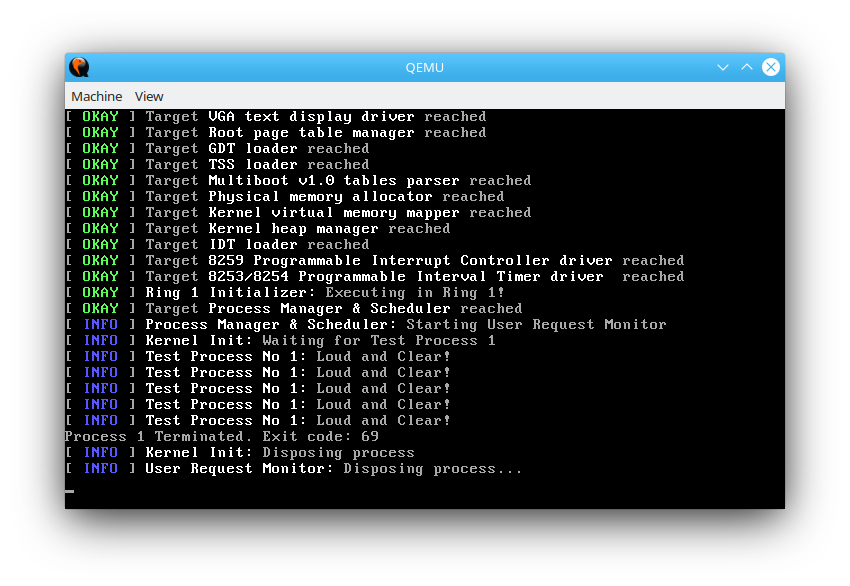
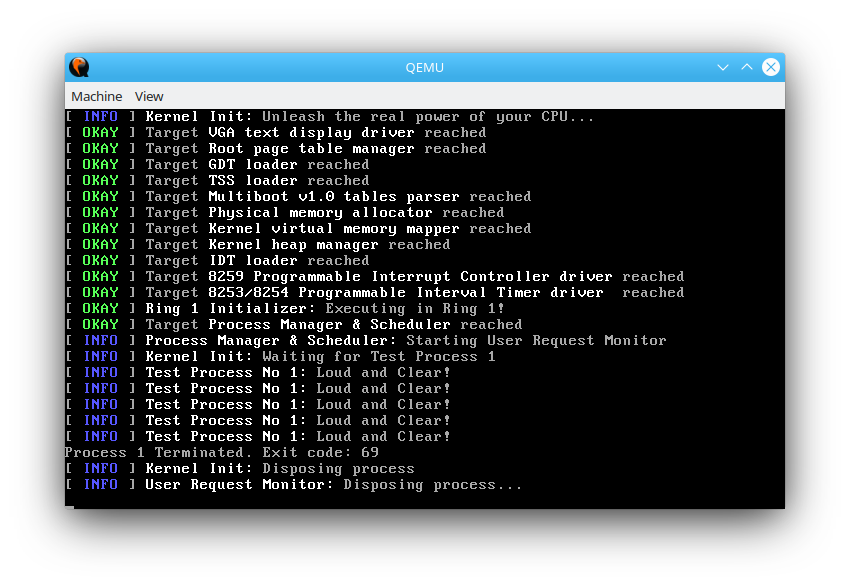
meta: Added important remark

diff --git a/kernel/src/entry.c b/kernel/src/entry.c
@@ -26,6 +26,7 @@ void test_process() {
 
 void kernel_main(uint32_t mb_offset) {
 	vga_init();
+	kmsg_log("Kernel Init", "Unleash the real power of your CPU...");
 	kmsg_init_done("VGA text display driver");
 	cr3_init();
 	kmsg_init_done("Root page table manager");

diff --git a/README.md b/README.md
@@ -3,19 +3,19 @@
 ![Process Test image](screenshots/process_test.png)
 *CPL-1 kernel process subsystem test*
 
-## What is CPL-1
+### What is CPL-1
 
 CPL-1 Operating System is a hobby operating system project with the goal of creating small operating system that can build itself. It is called like that as the kernel runs in ring 1 to avoid variable length interrupt frames.
 
-## Why CPL-1 is 32 bit only?
+### Why CPL-1 is 32 bit only?
 
 CPL-1 is written to run in protected mode. Why? The answer is simple: I have never written 32 bit OSes before, so I decided to find out whether writing 32 bit OSes is really more simple (spoiler: it is not).
 
-## What I need to build CPL-1?
+### What I need to build CPL-1?
 
 CPL-1 uses clang, lld, nasm and GNU Make to build. In the future I am planning to switch to gcc, as it is significantly easier to port gcc than to port clang.
 
-## How I build CPL-1?
+### How I build CPL-1?
 
 To build kernel
 ```
@@ -35,6 +35,6 @@ To build kernel, start QEMU, launch GDB, and connect it to QEMU for debugging (`
 make debug
 ```
 
-## What CPL-1 is licensed under?
+### What CPL-1 is licensed under?
 
 CPL-1 uses MIT license. In short, it means that you need to cite this codebase if you are planning to use code from this repository. Don't quote me on this though.
